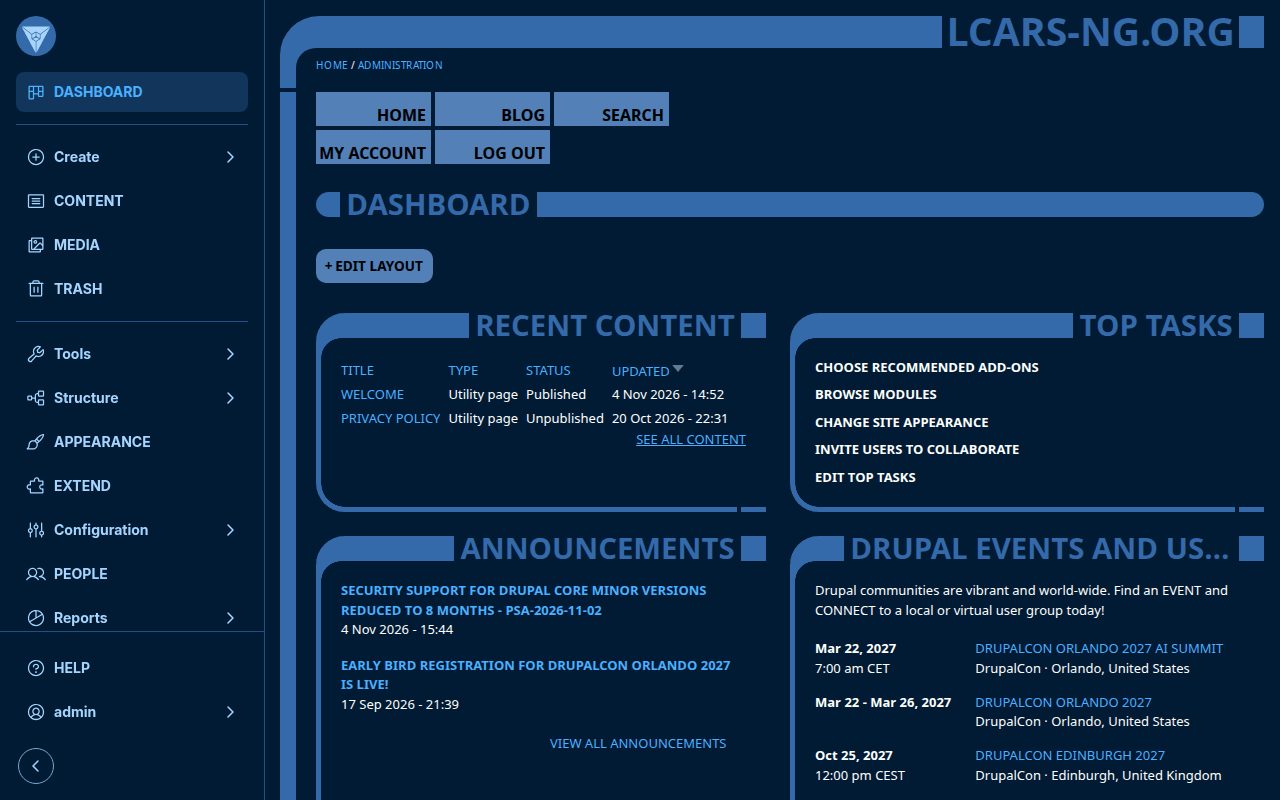
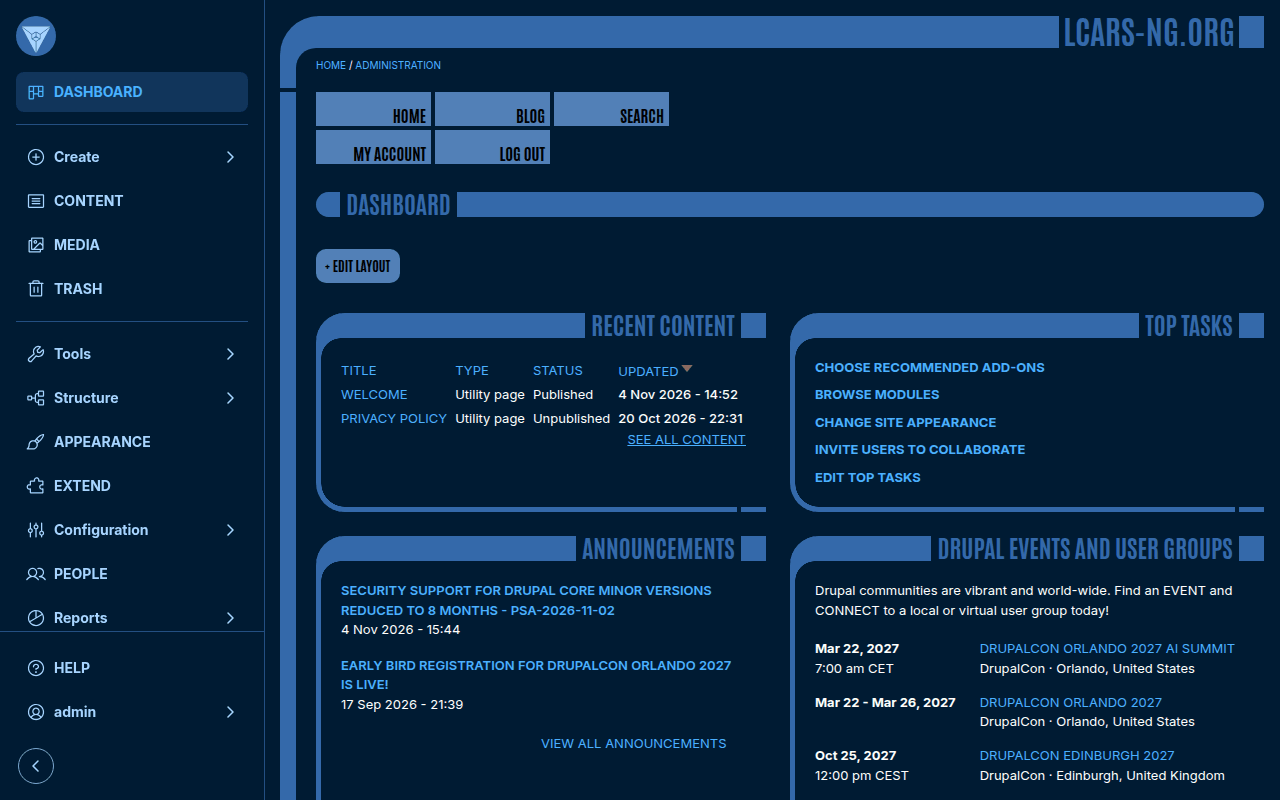
New screenshots with the theme's own typefaces; README names the typefaces
- images/screenshots/front-page.png and dashboard.png (1280 x 800) and
  screenshot.png (588 x 438, now taken at 1280 x 954, where the tables of
  the right sidebar fit their column with Inter).
- README: the theme brings its own typefaces, Antonio and Inter, and looks
  the same in every browser and on every system; the typefaces are custom
  properties in tokens.css besides colors and frame sizes.

diff --git a/README.md b/README.md
@@ -13,7 +13,9 @@ The theme works as front-end theme and as administration theme. Its frame
 adapts to the width and height of the screen, from phones to wide desktop
 screens, for mouse and touch: it fills the window on short pages, and longer
 pages scroll. It follows the settings of the system for more contrast,
-contrast themes and reduced motion.
+contrast themes and reduced motion. It brings its own typefaces, the narrow
+Antonio for bars, titles, buttons, menus and tabs and Inter for the running
+text, so it looks the same in every browser and on every system.
 
 <p>
   <a href="images/screenshots/front-page.png"><img src="images/screenshots/front-page.png" width="49%" alt="LCARS-NG front page for signed-in users with the contrast setting Standard, with the collapsed Navigation of Drupal on the left and its top bar: upper panel with logo, site name and slogan, status line with date and user, menu buttons on the left, content and panels below"></a>
@@ -140,8 +142,10 @@ titles are cut into the ceiling of the panel (the notice title with Klaro's
 setting *Show notice title*); short titles such as "Privacy" and "Privacy
 settings" fit best.
 
-Colors and frame sizes are custom properties in `css/lcars/tokens.css`
-(`--lcars-*`). A sub-theme can override them in its own stylesheet.
+Colors, typefaces and frame sizes are custom properties in
+`css/lcars/tokens.css` (`--lcars-*`; the typefaces `--lcars-font`,
+`--lcars-font-label` and `--lcars-font-code`, their files in
+`css/lcars/fonts.css`). A sub-theme can override them in its own stylesheet.
 
 The theme provides four single-directory components to embed in templates:
 button, heading, text and panel (`components/`). Button, heading and text
